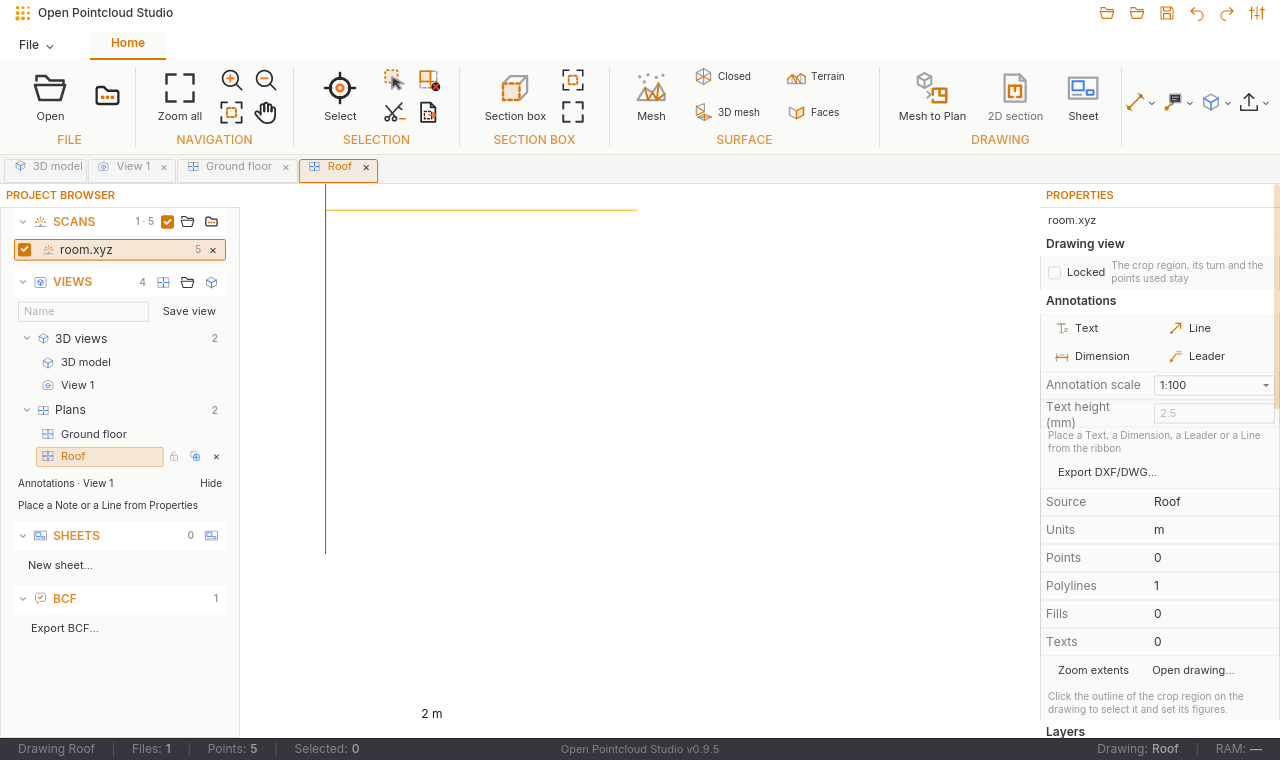
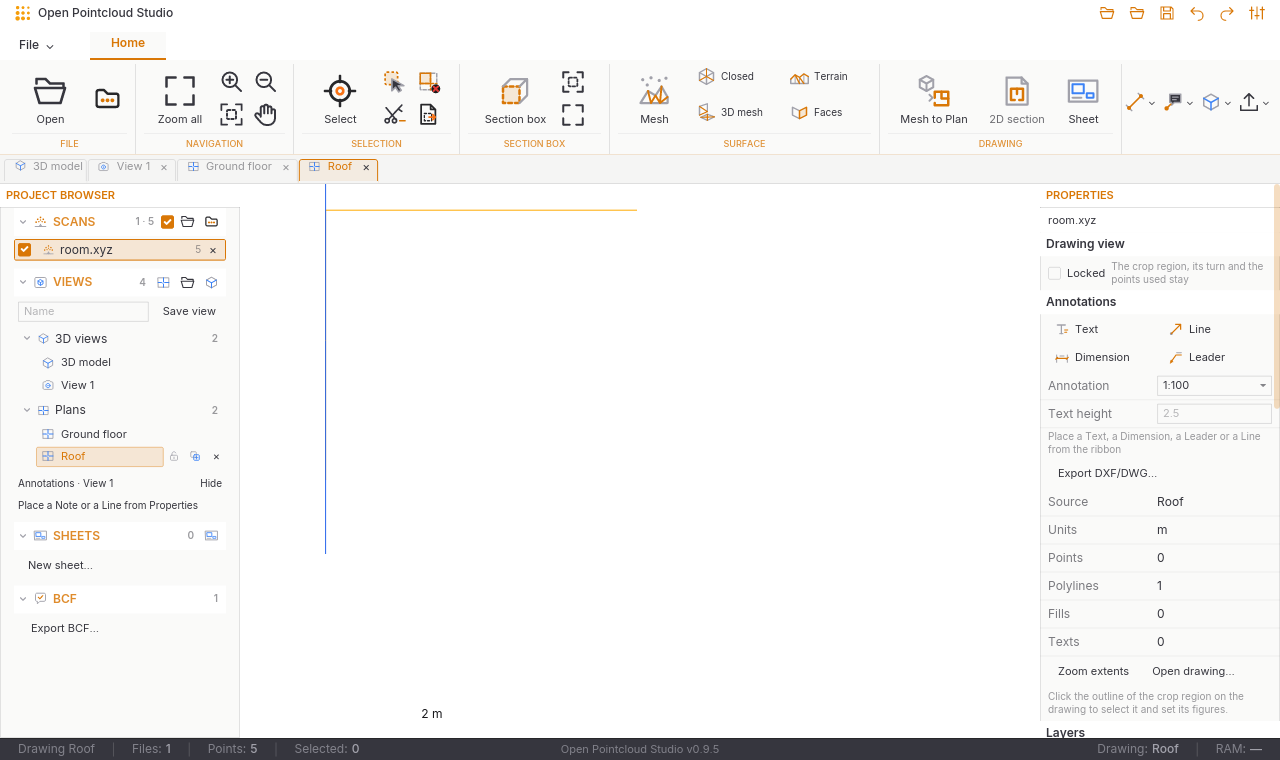
Use shared transparent document tab edge

diff --git a/native/desktop/src/view_tabs/tests.rs b/native/desktop/src/view_tabs/tests.rs
@@ -232,6 +232,28 @@ fn the_x_of_the_active_tab_reads_on_the_shared_style_in_every_theme() {
     }
 }
 
+#[test]
+fn active_document_tab_has_the_style_book_transparent_bottom_edge() {
+    // DocumentBar.css uses a two-pixel transparent lower border. The shared
+    // tab helper covers Iced's uniform lower rule with the document surface.
+    let _language = crate::i18n::TestLanguage::hold(crate::i18n::Language::English);
+    let (mut studio, _directory) = studio_with_scan();
+    let _ = studio.update(Message::Views(ViewAction::Save));
+    let plan = made_drawing(&mut studio, "Ground floor", 4.0);
+    let roof = made_drawing(&mut studio, "Roof", 8.0);
+    let _ = studio.update(Message::DrawingView(DrawingViewAction::ShowDrawing(plan)));
+    let _ = studio.update(Message::DrawingView(DrawingViewAction::ShowDrawing(roof)));
+    for theme in [crate::ui_theme::UiTheme::Light, crate::ui_theme::UiTheme::Forge] {
+        studio.ui_theme = theme;
+        let picture = crate::test_render::render_window(&studio, Size::new(1280.0, 760.0));
+        let background = theme.colors().docbar_bg;
+        assert!(!picture.is(330, 180, background), "{} active tab body", theme.key());
+        for y in [181, 182] {
+            assert!(picture.is(330, y, background), "{} transparent edge y={y}: {:?}", theme.key(), picture.rgb(330,y));
+        }
+    }
+}
+
 /// A studio with one scan, its views and drawings in a folder of the test.
 fn studio_with_scan() -> (Studio, tempfile::TempDir) {
     let directory = tempfile::tempdir().unwrap();

diff --git a/native/ui/src/widgets.rs b/native/ui/src/widgets.rs
@@ -8,9 +8,9 @@ use crate::{
 use iced::{
     widget::{
         button, checkbox, column, container, pick_list, progress_bar, row, scrollable, slider,
-        text, text_input, tooltip,
+        stack, text, text_input, tooltip, Space,
     },
-    Background, Border, Element, Fill, Length, Padding,
+    Alignment, Background, Border, Element, Fill, Length, Padding,
 };
 
 pub fn slider_style(theme: Theme, status: slider::Status) -> slider::Style {
@@ -493,6 +493,23 @@ pub fn document_tab_style(theme: Theme, active: bool, status: button::Status) ->
         },
         ..button::Style::default()
     }
+}
+
+/// Cover Iced's uniform lower rule with the document-band surface. The Tauri
+/// tab reserves a transparent 2 px bottom border; its contents and actions
+/// remain owned by the first child.
+pub fn document_tab_bottom_gap<'a, M: 'a>(theme: Theme, tab: Element<'a, M>) -> Element<'a, M> {
+    let surface = theme.tokens().docbar_bg;
+    let gap = container(
+        container(Space::new(Fill, 2))
+            .width(Fill)
+            .height(2)
+            .style(move |_| container::Style::default().background(surface)),
+    )
+    .width(Fill)
+    .height(24)
+    .align_y(Alignment::End);
+    stack![tab, gap].into()
 }
 
 /// Close glyph inside a shared document tab. Active and hovered glyphs use

diff --git a/native/ui/src/shell.rs b/native/ui/src/shell.rs
@@ -89,13 +89,12 @@ pub fn shell<'a, M: Clone + 'a>(state: &'a ShellState, slots: Slots<'a,M>) -> El
         let content = row![text(label).size(11), close]
             .spacing(6)
             .align_y(iced::Alignment::Center);
-        documents = documents.push(
-            button(content)
-                .on_press(Message::Document(DocumentEvent::Activate(doc.id)))
-                .height(24)
-                .padding(Padding { top: 0.0, bottom: 0.0, left: 10.0, right: 4.0 })
-                .style(move |_, status| widgets::document_tab_style(theme, selected, status)),
-        );
+        let tab = button(content)
+            .on_press(Message::Document(DocumentEvent::Activate(doc.id)))
+            .height(24)
+            .padding(Padding { top: 0.0, bottom: 0.0, left: 10.0, right: 4.0 })
+            .style(move |_, status| widgets::document_tab_style(theme, selected, status));
+        documents = documents.push(widgets::document_tab_bottom_gap(theme, tab.into()));
     }
     let document_bar=crate::frame::document_bar(theme, horizontal(documents));
     let body: Element<'a,Message<M>> = if state.backstage {

diff --git a/native/desktop/src/view_tabs.rs b/native/desktop/src/view_tabs.rs
@@ -948,7 +948,11 @@ impl Studio {
         } else {
             body.into()
         };
-        ui_style::tooltip(element, tip).into()
+        ui_style::tooltip(
+            openaec_ui::widgets::document_tab_bottom_gap(theme, element),
+            tip,
+        )
+        .into()
     }
 
     /// What `status.result.view_tabs` reports: the tabs the strip shows, in

diff --git a/native/README.md b/native/README.md
@@ -62,7 +62,7 @@ The design follows [OpenCADStudio](https://github.com/HakanSeven12/OpenCADStudio
 
 Each file states its source and what was changed. OpenCADStudio is GPL-3.0, so the desktop crate is GPL-3.0-only; the licence text is [`desktop/LICENSE-GPL-3.0`](desktop/LICENSE-GPL-3.0). The core stays LGPL-3.0-or-later.
 
-Colours, group captions, active and hover states and the Settings dialog follow the [OpenAEC style book](https://github.com/OpenAEC-Foundation/OpenAEC-style-book). The five themes Light, Forge (dark), OpenAEC (dark), Blueprint and High contrast, with Light as the default, are the five columns of `themes.css` of its desktop template (commit `dfdcd41`): `ui_theme.rs` holds every variable of that file as a token of the same name, unchanged, with the semantic colours of the brand beside them and, under `dom`, the colours of the application itself (the scene, the paper of a drawing and of a sheet, and what is drawn on them). The fonts are those of the style book, static files under the SIL Open Font License: Inter in the weights 400, 500 and 600 for the interface and Space Grotesk Medium for headings, with their roles in `fonts.rs`, which every text drawn on a canvas names as well (a test holds it), the texts of drawings and sheets keeping a sans-serif of the system; see [`assets/fonts/README.md`](assets/fonts/README.md). `ui_style.rs` holds the shared styles of the shell: the primary and secondary buttons, the buttons of the ribbon and the small actions of the panels, links, text fields, choice lists with their menu, checkboxes, sliders, progress bars, scroll bars and tooltips, made through its own constructors (a test holds that the window makes none of these widgets itself), and the arrow that stays the pointer over buttons; the canvases never ask for the hand either (a test holds it), but light up what a click acts on or show the pointer for dragging over what is dragged. `status_bar.rs` supplies Pointcloud-specific status cells and cancel actions to the portable `openaec-ui::frame::status_bar`; the crate now owns the 22 px band, top rule, background and padding in every theme. The document strip is likewise framed by `openaec-ui::frame::document_bar` with the Style Book 30 px band and source borders. Its 24 px tabs and close controls use the shared `widgets::document_tab_style` and `widgets::document_close_style`; Pointcloud keeps its tab identities, shortening, close behavior and scroll position. Ten reviewed general tool icons now come from the shared Rust set; Zoom in, Zoom out, Pan and Fit selection were checked at 16, 24 and 32 px in Light and Forge before replacing their local SVGs. The ribbon groups now use `openaec-ui::widgets::ribbon_group` for their 94 px frame, inset, label rule and right separator; the adaptive ribbon still measures and collapses Pointcloud’s live command groups. The properties dock now supplies its localized field labels, values and interactive controls to `openaec-ui::widgets::property_grid_row_with`, `property_grid_control_with` and `property_section_with`, sharing 28 px rows and 24 px section headers with the Style Repo.
+Colours, group captions, active and hover states and the Settings dialog follow the [OpenAEC style book](https://github.com/OpenAEC-Foundation/OpenAEC-style-book). The five themes Light, Forge (dark), OpenAEC (dark), Blueprint and High contrast, with Light as the default, are the five columns of `themes.css` of its desktop template (commit `dfdcd41`): `ui_theme.rs` holds every variable of that file as a token of the same name, unchanged, with the semantic colours of the brand beside them and, under `dom`, the colours of the application itself (the scene, the paper of a drawing and of a sheet, and what is drawn on them). The fonts are those of the style book, static files under the SIL Open Font License: Inter in the weights 400, 500 and 600 for the interface and Space Grotesk Medium for headings, with their roles in `fonts.rs`, which every text drawn on a canvas names as well (a test holds it), the texts of drawings and sheets keeping a sans-serif of the system; see [`assets/fonts/README.md`](assets/fonts/README.md). `ui_style.rs` holds the shared styles of the shell: the primary and secondary buttons, the buttons of the ribbon and the small actions of the panels, links, text fields, choice lists with their menu, checkboxes, sliders, progress bars, scroll bars and tooltips, made through its own constructors (a test holds that the window makes none of these widgets itself), and the arrow that stays the pointer over buttons; the canvases never ask for the hand either (a test holds it), but light up what a click acts on or show the pointer for dragging over what is dragged. `status_bar.rs` supplies Pointcloud-specific status cells and cancel actions to the portable `openaec-ui::frame::status_bar`; the crate now owns the 22 px band, top rule, background and padding in every theme. The document strip is likewise framed by `openaec-ui::frame::document_bar` with the Style Book 30 px band and source borders. Its 24 px tabs and close controls use the shared `widgets::document_tab_style` and `widgets::document_close_style`, while `document_tab_bottom_gap` masks the lower 2 px to match the transparent Style Book edge; Pointcloud keeps its tab identities, shortening, close behavior and scroll position. Ten reviewed general tool icons now come from the shared Rust set; Zoom in, Zoom out, Pan and Fit selection were checked at 16, 24 and 32 px in Light and Forge before replacing their local SVGs. The ribbon groups now use `openaec-ui::widgets::ribbon_group` for their 94 px frame, inset, label rule and right separator; the adaptive ribbon still measures and collapses Pointcloud’s live command groups. The properties dock now supplies its localized field labels, values and interactive controls to `openaec-ui::widgets::property_grid_row_with`, `property_grid_control_with` and `property_section_with`, sharing 28 px rows and 24 px section headers with the Style Repo.
 
 ## User interface
 
